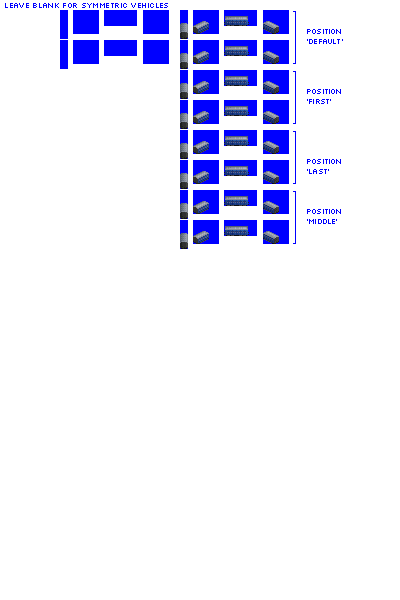
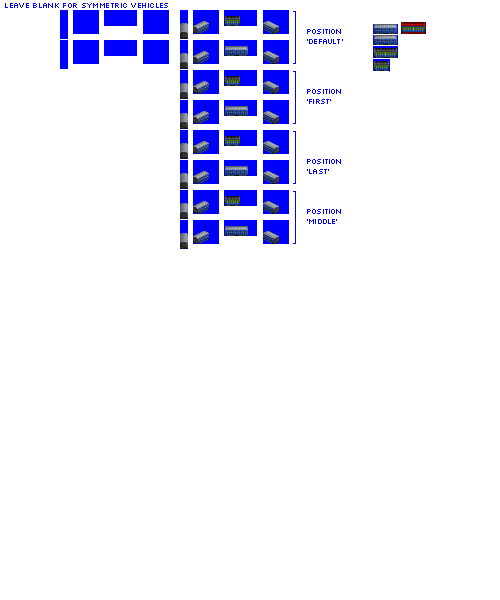
Change: WIP on NG pax cars

diff --git a/src/vehicles/passenger_cars.py b/src/vehicles/passenger_cars.py
@@ -11,9 +11,22 @@ def main():
 
     consist.add_unit(type=PaxMailCar,
                      capacity=25,
-                     vehicle_length=6)
+                     vehicle_length=4,
+                     chassis='2_axle_filled_16px')
 
-        #--------------- pony ----------------------------------------------------------------------
+
+    consist = PassengerCarConsist(roster='pony',
+                                  base_numeric_id=1530,
+                                  gen=1,
+                                  subtype='B',
+                                  track_type='NG')
+
+    consist.add_unit(type=PaxMailCar,
+                     capacity=25,
+                     vehicle_length=6,
+                     chassis='4_axle_filled_24px')
+
+    #--------------- pony ----------------------------------------------------------------------
 
     consist = PassengerCarConsist(roster='pony',
                                   base_numeric_id=740,

diff --git a/src/train.py b/src/train.py
@@ -1181,7 +1181,11 @@ class Train(object):
     def roof(self):
         # fetch spritesheet name to use for roof when generating graphics
         if self.consist.generate_unit_roofs:
-            return str(4 * self.vehicle_length) + 'px_' + self.consist.roof_type
+            if self.consist.track_type == 'NG':
+                ng_prefix = 'ng_'
+            else:
+                ng_prefix = ''
+            return str(4 * self.vehicle_length) + 'px_' + ng_prefix + self.consist.roof_type
         else:
             return None
 
